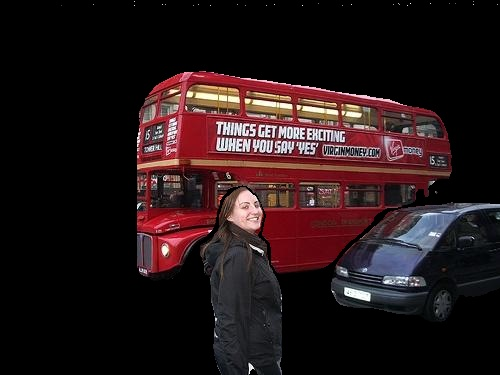
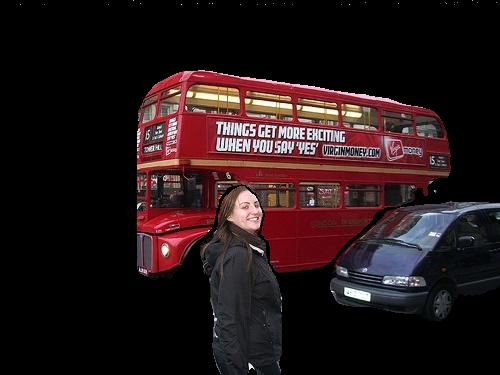
small changes

diff --git a/yolact_uint8.cpp b/yolact_uint8.cpp
@@ -18,7 +18,7 @@
 #define VXDEVICE  "TIMVX"
 #define DEBUG 0
 #define CORRECT_MASK 1 // move mask to right bottom corner
-#define OFFSET 6 // offset for mask
+#define OFFSET 5       // offset for mask
 
 const float mean_vals[3] = {123.68f, 116.78f, 103.94f};
 const float norm_vals[3] = {1.0 / 58.40f, 1.0 / 57.12f, 1.0 / 57.38f};
@@ -465,7 +465,7 @@ int detect_yolact_wrapper(const cv::Mat& bgr, std::vector<Object>& objects, grap
     return 0;
 }
 
-static void draw_objects(cv::Mat& bgr, cv::Mat& bgr2, const std::vector<Object>& objects)
+static void draw_objects(cv::Mat& image, cv::Mat& cropped, const std::vector<Object>& objects)
 {   
     const char* class_names[] = {"background",
                             "person", "bicycle", "car", "motorcycle", "airplane", "bus",
@@ -567,8 +567,8 @@ static void draw_objects(cv::Mat& bgr, cv::Mat& bgr2, const std::vector<Object>&
         {245, 255, 0}
     };
 
-    cv::Mat &image = bgr;
-    cv::Mat &cropped = bgr2;
+    // cv::Mat &image = bgr;
+    // cv::Mat &cropped = bgr2;
 
     int color_index = 0;
 

diff --git a/demo.py b/demo.py
@@ -26,9 +26,11 @@ class Yolact(threading.Thread):
         self.frame = cv2.imread("yolact.jpg")        
         height, width, c = self.frame.shape
         self.cropped = np.zeros([height, width, c], dtype = np.uint8)
-        libc.inference(self.frame.ctypes.data , self.cropped.ctypes.data, height, width, self.graph, self.input_tensor)          
+        libc.inference(self.frame.ctypes.data , self.cropped.ctypes.data, height, width, self.graph, self.input_tensor)    
+        print("Press any key")      
         cv2.imwrite("cropped_image.jpg", self.cropped)
-        print("Fps: ", 1/(time.time() - start))
+        cv2.imshow("cropped frame", self.cropped)
+        cv2.waitKey(0)
 
 if __name__ == "__main__":
     model = Yolact("yolact_50_KL_uint8.tmfile")
